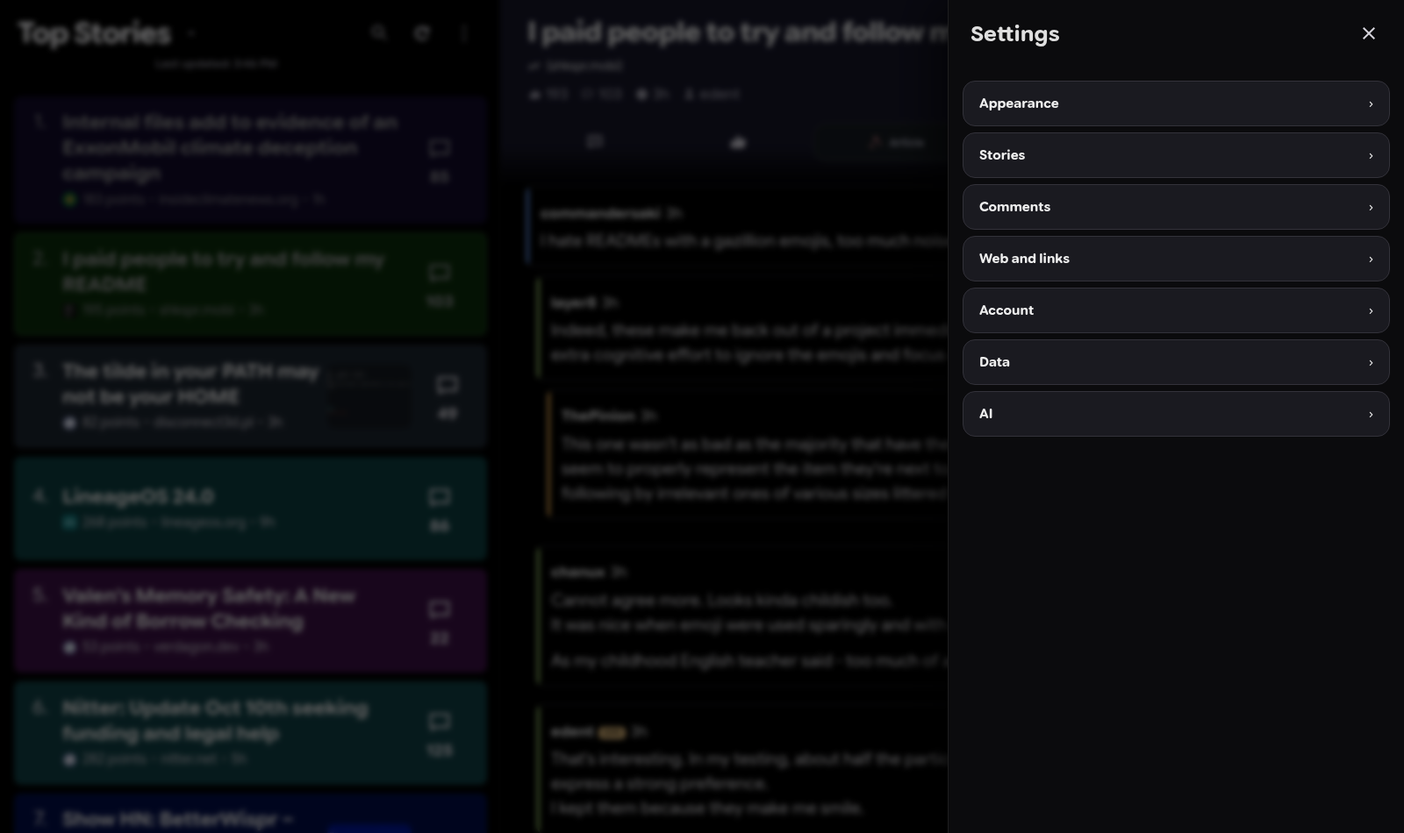
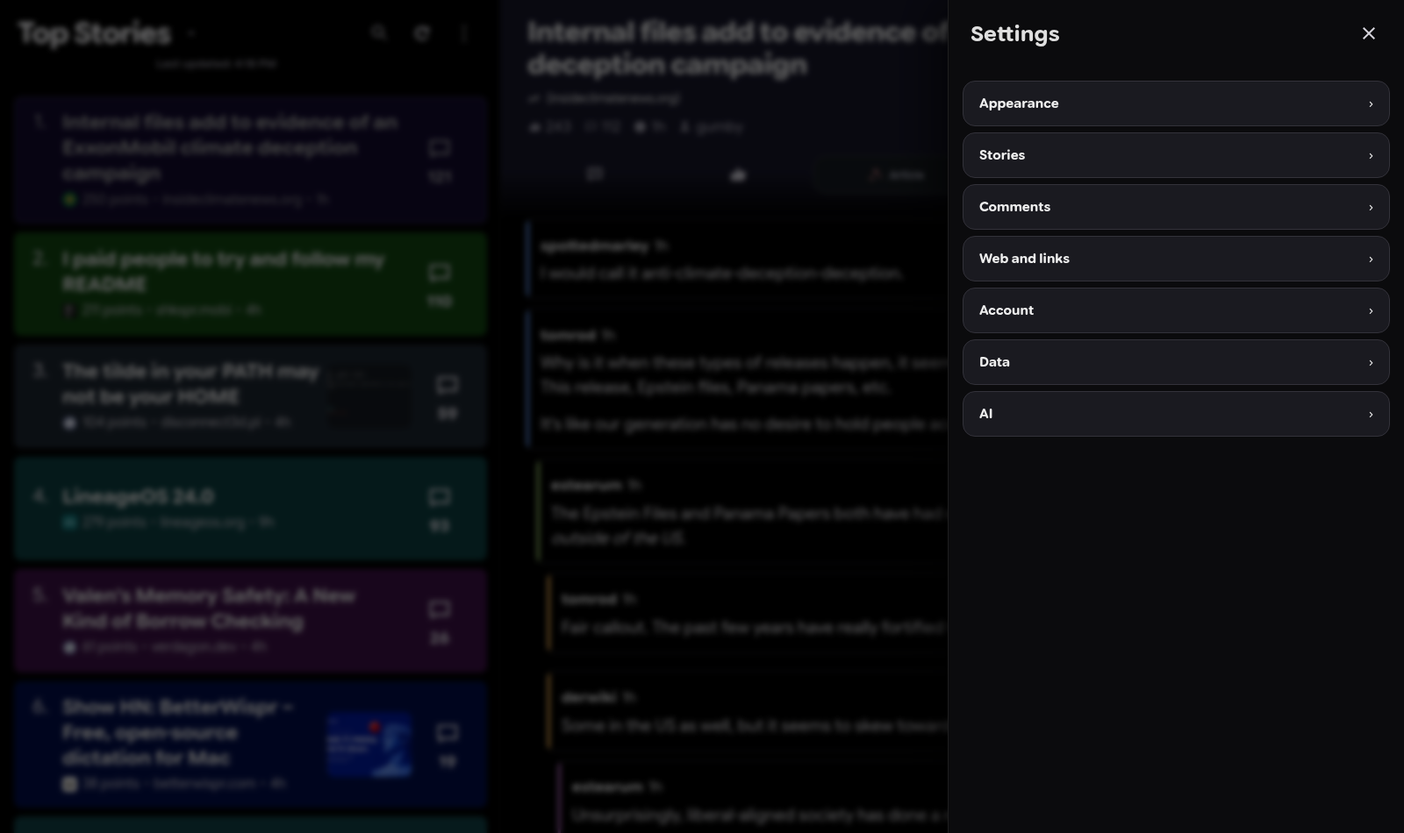
docs: simplify onboarding with more screenshots

diff --git a/README.md b/README.md
@@ -2,127 +2,92 @@
 
 **A better place to read Hacker News on your browser.**
 
-Harmonic for Hacker News is a free, open-source Chrome extension that gives [Hacker News](https://news.ycombinator.com/) a more comfortable reading interface: colorful story cards, a two-column layout, thoughtful comment threads, and controls that stay out of the way until you need them.
+Harmonic for Hacker News is a Chrome extension that gives [Hacker News](https://news.ycombinator.com/) a cleaner, more enjoyable desktop interface. Read stories, follow discussions, search Hacker News, and use your HN account without leaving the website.
 
-It runs **on the real Hacker News website**. Your links, discussions, votes, and account still belong to Hacker News. You don't need a Hacker News account to browse, and **you don't need Node.js, a terminal, or a build step to install it**.
+![Harmonic showing colorful stories on the left and a discussion on the right](docs/assets/overview.png)
 
-[**Get the latest release**](https://github.com/chaosmanage/harmonic-hn-browser/releases/latest) · [**Install from source**](#option-b-download-or-clone-the-repository) · [**See what it can do**](#what-you-get)
+## Why I made this
 
-## With thanks to the original Harmonic
+I really enjoy using [**Harmonic for Hacker News on Android**](https://github.com/SimonHalvdansson/Harmonic-HN). Compared with Harmonic, the regular Hacker News website never felt particularly appealing or intuitive to me. I wanted to bring that same reading experience to my computer.
 
-**This project exists because of [Harmonic for Hacker News by Simon Halvdansson](https://github.com/SimonHalvdansson/Harmonic-HN). Thank you, Simon, for building it and releasing it as open source.**
+I even tried running the Android app in an emulator. It worked as an experiment, but it wasn't how I wanted to use Hacker News every day. A **Chrome extension** turned out to be the better solution: open Hacker News in a normal browser tab, and get the Harmonic-style interface right there.
 
-Harmonic is a beautifully considered **Android app for reading Hacker News**. Its dark reading surfaces, colorful story cards, relaxed typography, and clear treatment of deeply nested conversations make HN feel like something you can settle into instead of a page you have to decipher.
+**A huge thank-you to [Simon Halvdansson](https://github.com/SimonHalvdansson/Harmonic-HN) for the original Harmonic Android app.** Its design, thoughtful approach to reading, and open-source code are the reason this project exists. I've taken a lot of inspiration from it, including the story cards, colors, typography, and comment layout. This is an independent browser adaptation, not an official Harmonic desktop app.
 
-We wanted that same approach at a desktop keyboard, with a wide monitor and ordinary browser tabs. **This extension is a browser adaptation inspired by Harmonic's design philosophy**, not a copy of the Android app and not an official desktop edition. You do **not** need to have seen or used the Android app to understand or use this project.
+If you've never used Harmonic on Android, that's fine. All you need to know is that this extension makes Hacker News more comfortable to read on a desktop.
 
-We also use Harmonic's original launcher artwork (with attribution) and load a pinned copy of its rounded font at runtime. The upstream project is licensed under [Apache-2.0](https://github.com/SimonHalvdansson/Harmonic-HN/blob/main/LICENSE); details of the icon source are recorded in [icons/README.md](icons/README.md).
+## Install in Chrome
 
-## A look at Harmonic on the web
+**No coding or building required.** Just download the extension, extract it, and tell Chrome where the folder is.
 
-![The Harmonic extension displaying a Hacker News story feed on the left and an expanded discussion on the right](docs/assets/overview.png)
+1. **Download:** Go to [**Releases**](https://github.com/chaosmanage/harmonic-hn-browser/releases/latest) and download the ZIP named `harmonic-hn-browser-<version>.zip` under **Assets**.
+2. **Unzip it:** Extract the downloaded ZIP. Open the extracted folder; inside you'll find a folder named **`harmonic-hn-browser`**. Keep it somewhere permanent, like Documents.
+3. **Open Chrome extensions:** Type **`chrome://extensions`** into Chrome's address bar.
+4. **Turn on Developer mode** using the switch in the top-right corner, then click **Load unpacked**.
+5. **Choose the folder:** Select the inner **`harmonic-hn-browser`** folder — the one that directly contains the file **`manifest.json`**. Don't select the ZIP itself.
+6. **You're done:** Open [news.ycombinator.com](https://news.ycombinator.com/), or refresh it if it was already open.
 
-*Harmonic running on news.ycombinator.com. The left pane is your feed; the right pane is the selected discussion. Screenshot from the actual extension; story content changes over time.*
+![Chrome Extensions page with Developer mode on and Load unpacked at the top](docs/assets/install-chrome.png)
 
-## Install in Chrome — no build required
+### Prefer downloading the source or using Git?
 
-The extension isn't installed through the Chrome Web Store. Chrome's **Load unpacked** option takes about a minute and works with either a release download or the source repository.
-
-### Option A: Download a release (recommended)
-
-1. Open the [**GitHub Releases page**](https://github.com/chaosmanage/harmonic-hn-browser/releases/latest).
-2. Under **Assets**, download `harmonic-hn-browser-<version>.zip` (for example, `harmonic-hn-browser-0.13.6.zip`). **Do not download the “Source code” archive if you specifically want the packaged release.** Both can work, but their folder layouts differ.
-3. Extract the ZIP to a location you'll keep, such as your Documents folder. Inside it is a folder named `harmonic-hn-browser`.
-4. Follow the [Load unpacked steps](#load-the-extension) below, and select that inner `harmonic-hn-browser` folder.
-
-### Option B: Download or clone the repository
-
-**No build is necessary:** the repository root already contains everything Chrome needs, including `manifest.json`.
-
-- **Without Git:** open the [repository](https://github.com/chaosmanage/harmonic-hn-browser), click **Code → Download ZIP**, then extract the archive.
-- **With Git:** run:
-
-  ```bash
-  git clone https://github.com/chaosmanage/harmonic-hn-browser.git
-  ```
-
-Follow the next steps, selecting the **repository's root directory**, the folder containing `manifest.json`. You can ignore `npm`, `node_modules`, and `dist` entirely as a reader.
-
-### Load the extension
-
-1. Open **`chrome://extensions`** in Chrome (or the browser's equivalent Extensions page).
-2. Turn on **Developer mode** (top-right).
-3. Click **Load unpacked**.
-4. Select the folder containing **`manifest.json`**: the extracted `harmonic-hn-browser` release folder **or** the repository root. Select a folder, **not the ZIP file itself**.
-5. Visit [news.ycombinator.com](https://news.ycombinator.com/). Harmonic should appear automatically. Refresh an already-open HN tab if necessary.
-6. Optionally pin **Harmonic for Hacker News** from the browser's Extensions menu to access the on/off switch.
-
-```text
-Release download                         Source download / git clone
-harmonic-hn-browser-0.13.6.zip            harmonic-hn-browser/
-└── harmonic-hn-browser/                 ├── manifest.json   ← select this folder
-    ├── manifest.json                   ├── content.js
-    ├── content.js                       └── ...
-    └── ...
-    ↑ select this inner folder
-```
-
-**Updating:** Keep the extracted extension **in the same location**, replace its contents with the new release (or `git pull` in your cloned repository), click **Reload** at `chrome://extensions`, then refresh HN. Moving the folder can cause Chrome to treat it as a different unpacked extension and may affect stored settings. See [installation troubleshooting](docs/TROUBLESHOOTING.md) if anything looks wrong.
-
-## What you get
-
-| | |
-| --- | --- |
-| **A proper desktop reader** | A scrollable feed beside the active discussion, with room for nested comments and long titles. |
-| **Readable stories** | Tinted cards, source favicons, optional preview images, score and comment counts, and read-state indicators. |
-| **Comments worth reading** | Depth-colored threads, collapsing branches, in-thread search, jump navigation, sorting, and optional author tags or blocks. |
-| **More ways to find things** | Top, New, Best, Ask, Show, Jobs, extra curated feeds, and site-wide search powered by Algolia's HN index. |
-| **Your own look** | AMOLED black, charcoal, or deep navy themes; font, card, image, feed, and comment preferences. |
-| **Your HN account, if you want it** | Sign in through Hacker News itself to vote, reply, submit stories, manage favorites, and browse account lists. |
-| **Optional AI summaries** | Separate **Article** and **Discussion** summaries via your own OpenRouter API key; you choose when to request one. |
-| **An escape hatch** | Open untouched Hacker News whenever you want, or disable Harmonic from its toolbar popup without removing the extension. |
-
-See the [feature guide](docs/FEATURES.md) for screenshots, settings, and the full explanation of how these work.
-
-### A few things to know
-
-- **You can read without signing in.** For account actions, Harmonic uses your existing Hacker News session and Hacker News's own login page; it doesn't collect your password.
-- **Editing and deleting comments are currently handed off to original Hacker News.** Harmonic explains the limitation and asks before opening HN's edit or delete page. Replying and new story submissions are available inside the extension, subject to HN's own validation and rate limits.
-- **AI is optional and off until configured.** Article text or public discussion content is sent to OpenRouter only when you explicitly request a summary. Some websites prevent automated article reading; a discussion summary is a separate choice, not a substitute silently presented as an article summary.
-- **This is an independent extension.** It is not affiliated with Simon Halvdansson, Hacker News, Y Combinator, or OpenRouter.
-
-## Privacy and permissions, in plain English
-
-Harmonic runs on `news.ycombinator.com`; it does not replace HN or route your browsing through a project-owned server. It has no project-owned analytics service or backend. Preferences, bookmarks, read-state markers, and optional user tags are stored locally and/or in Chrome storage. Non-secret display preferences can sync via Chrome Sync.
-
-The extension requests broad website access because previews, favicons, linked-article reading, and optional summaries involve links to many different domains; the **Harmonic interface itself is only injected on Hacker News**. Optional OpenRouter keys stay in extension-owned storage, not HN page storage, and are sent to OpenRouter when you ask for a summary.
-
-The exact storage modes, external requests, limitations, and safety measures are documented in [**Privacy & security**](docs/PRIVACY.md).
-
-## For contributors and the curious
-
-The extension uses **Chrome Manifest V3 and plain JavaScript/CSS**. There's no frontend framework and no build step for ordinary use. To develop or create a distributable ZIP:
+That works too. On the [repository page](https://github.com/chaosmanage/harmonic-hn-browser), choose **Code → Download ZIP** and extract it, or clone it:
 
 ```bash
-npm ci
-npm run package
+git clone https://github.com/chaosmanage/harmonic-hn-browser.git
 ```
 
-That produces `dist/harmonic-hn-browser/` (loadable unpacked) and `dist/harmonic-hn-browser-<version>.zip` (shareable). The release ZIP is the one attached to GitHub Releases.
+Then follow **steps 3–6 above**, selecting the downloaded or cloned **repository folder** (the folder with `manifest.json`). **You still don't need to build anything.**
 
-| Document | What it's for |
+To update an unpacked installation, keep the same folder location, replace its contents (or run `git pull`), click **Reload** on `chrome://extensions`, and refresh Hacker News. [Having trouble?](docs/TROUBLESHOOTING.md)
+
+## What can it do?
+
+- **Read side by side.** Stories stay on the left while the discussion opens on the right.
+- **Browse more feeds.** Top, New, Best, Ask HN, Show HN, Jobs, and more.
+- **Follow conversations.** Color-coded reply depths, collapsible threads, comment search, and sorting.
+- **Search all of Hacker News.** Find stories or comments and filter by date, author, and more.
+- **Make it yours.** Dark themes, fonts, story previews, comment styles, and other settings.
+- **Use your HN account.** Vote, reply, submit stories, and manage favorites, using Hacker News's own login.
+- **Summarize with AI (optional).** Use your own OpenRouter key to summarize an article or its HN discussion.
+
+### A closer look
+
+| Feeds | Search Hacker News |
 | --- | --- |
-| [Feature guide](docs/FEATURES.md) | Using the reader, accounts, search, summaries, and settings |
-| [Installation help](docs/TROUBLESHOOTING.md) | Setup, updates, common problems, and how to report an issue |
-| [Privacy & security](docs/PRIVACY.md) | Permissions, storage, network requests, and AI data handling |
-| [Architecture](docs/ARCHITECTURE.md) | Runtime pieces, APIs, and the path from a page to a rendered thread |
-| [Development & releases](docs/DEVELOPMENT.md) | Local setup, test commands, packaging, and release checklist |
-| [Changelog](CHANGELOG.md) | The detailed record of changes, fixes, and versions |
+| ![Choosing feeds in Harmonic](docs/assets/feeds.png) | ![Site-wide search and filters](docs/assets/search.png) |
+
+| Appearance | Story settings |
+| --- | --- |
+| ![Appearance options](docs/assets/appearance.png) | ![Story display options](docs/assets/story-settings.png) |
+
+[Explore the full feature guide, including more screenshots →](docs/FEATURES.md)
+
+## AI summaries: articles or discussions
+
+Sometimes I want the main points of an article before reading it. Other times the **Hacker News comments** are the interesting part. Harmonic has a separate button for each:
+
+- **Article** reads the linked page and summarizes its content.
+- **Discussion** summarizes the public Hacker News conversation instead.
+
+Both use [OpenRouter](https://openrouter.ai/) and are optional. Add your own API key in **Settings → AI** and select a model. Nothing is summarized unless you request it (unless you choose to enable automatic summaries in Settings). The text being summarized is sent to OpenRouter; not every article site allows automatic reading.
+
+![AI summary card in the discussion reader with demonstration-only output](docs/assets/ai-summary-demo.png)
+
+*AI interface demonstration. The example summary text is mocked, not a summary of the article shown.*
+
+## A couple of things to know
+
+You don't need to sign in just to read. For voting, replying, or posting, Harmonic uses your Hacker News session; login happens on HN itself. Editing or deleting **existing** comments currently opens HN's original edit/delete page after asking for confirmation.
+
+You can always open **original Hacker News** from the menu or turn off Harmonic from the extension icon without uninstalling it. The extension runs on `news.ycombinator.com`; it has no project-run server or analytics. [Read more about privacy and permissions.](docs/PRIVACY.md)
+
+## More information
+
+[Full feature guide](docs/FEATURES.md) · [Installation help](docs/TROUBLESHOOTING.md) · [Architecture](docs/ARCHITECTURE.md) · [Contributing and development](docs/DEVELOPMENT.md) · [Changelog](CHANGELOG.md)
 
 ## Credits and license
 
-**The largest credit goes to [Simon Halvdansson's Harmonic Android app](https://github.com/SimonHalvdansson/Harmonic-HN).** If you like this reading experience, please look at the original project. Its open-source work gave this desktop adaptation both its starting point and its visual direction.
+Once again, **thank you to [Simon Halvdansson and the original Harmonic Android project](https://github.com/SimonHalvdansson/Harmonic-HN)** for the inspiration. The extension uses the original Harmonic launcher artwork, with its source documented in [icons/README.md](icons/README.md), and loads the upstream rounded font at runtime.
 
-The extension's icon is derived from the original Harmonic launcher artwork. See [icon provenance](icons/README.md) for the exact upstream commit and source path. Both projects use the **Apache License 2.0**; see [LICENSE](LICENSE) for this repository's license.
-
-This browser extension is an independent community project, not an official Harmonic Android release or an official Hacker News product.
+This project is licensed under **[Apache License 2.0](LICENSE)**, the same license used by the original Harmonic project. It isn't affiliated with the original Harmonic developers, Hacker News, or Y Combinator.

diff --git a/docs/FEATURES.md b/docs/FEATURES.md
@@ -12,6 +12,8 @@ Harmonic changes how you **read** Hacker News, not where the discussions live. O
 
 Choose a feed from the title menu: Top, New, Best, Ask HN, Show HN, Jobs, and additional HN collections such as Active Discussions, Best Comments, Launch HN, and past front pages. Use **Manage feeds** to hide or reorder the less-used ones.
 
+![Feed switcher with Top, New, Best, Ask HN, Show HN, Jobs and Manage feeds](assets/feeds.png)
+
 Each story card can show its title, points, domain, age, reply count, favicon, and an optional preview image. Card tints help stories stand apart without turning the entire page into a grid of boxes. Story settings let you change density, preview sizing, points display, dimming for read stories, keyword/domain filters, and whether a card click opens the article or its comments.
 
 Click the comment count to open the discussion in the right pane. Article links open in a normal browser tab; Harmonic doesn't trap external links in its own reader.
@@ -33,6 +35,8 @@ The search field has two distinct modes:
 
 Search results open inside the same reader. For comment results, Harmonic can take you to the relevant discussion and comment. Site-wide results come from Algolia's index, so an extremely recent comment may not be indexed immediately.
 
+![Site-wide search controls showing content types, dates, sorting and author filters](assets/search.png)
+
 ## Your Hacker News account
 
 Reading needs no login. To interact as a user, sign in through **Hacker News's own login page** using the account entry in Harmonic. Harmonic doesn't ask for, read, or store your HN password.
@@ -53,6 +57,10 @@ Open **Settings** from Harmonic's menu or the extension toolbar popup.
 
 Settings are organized by **Appearance, Stories, Comments, Web and links, Account, Data, and AI**. You can choose an AMOLED-black, charcoal, or deep-navy color scheme; adjust reading fonts, zoom and story display; change comment treatment; control preview images and favicons; and configure link behavior. In the Data section you can export or import bookmarks, read-story IDs, user tags, and blocked-user rules as a JSON file.
 
+| Appearance | Story settings |
+| --- | --- |
+| ![Harmonic theme and font controls](assets/appearance.png) | ![Harmonic story customization controls](assets/story-settings.png) |
+
 Tags and blocking are **private local reading preferences**, not HN account features. Tagging a username helps you recognize them later; blocking replaces their comments with an unblockable placeholder. Neither setting changes what other users see on Hacker News.
 
 ### Link extras
@@ -72,7 +80,13 @@ The **Article** and **Discussion** buttons are separate for a reason: one summar
 3. Open a story and click **Article** or **Discussion**. The request runs only when you click.
 4. You can stop a running summary or regenerate it. The summary appears in the current reader, not in a new service.
 
+![AI settings and OpenRouter configuration in the Harmonic settings pane](assets/ai-settings.png)
+
 For an article summary, Harmonic fetches and extracts readable article text. Some websites block this; you may then choose to summarize public HN discussion separately. For a discussion summary, the source is the public comments rather than the external article. **Extracted source text is sent to OpenRouter** along with the configured summary prompt. Generated summaries can be inaccurate, especially on ambiguous threads.
+
+![AI summary presentation in Harmonic using test-only sample output](assets/ai-summary-demo.png)
+
+*Demonstration screenshot with a mocked OpenRouter response. The example text is not a real summary of the visible article.*
 
 The AI key can be stored **in this Chrome profile** or **for this browser session only**. It isn't synced via Chrome Sync. See [Privacy & security](PRIVACY.md) for the precise data flow and storage trade-offs.
 

diff --git a/docs/RELEASE_NOTES.md b/docs/RELEASE_NOTES.md
@@ -1,10 +1,10 @@
-# Harmonic for Hacker News v0.13.6
+# Harmonic for Hacker News v0.13.7
 
-A desktop reading experience for Hacker News, inspired by [Simon Halvdansson's Harmonic Android app](https://github.com/SimonHalvdansson/Harmonic-HN). Big thanks to the original project for the design direction and the open-source groundwork.
+**Documentation and onboarding update.** Harmonic is a Chrome extension that brings a Harmonic-inspired reading experience to Hacker News on desktop. A huge thank-you to [Simon Halvdansson and the original Harmonic Android app](https://github.com/SimonHalvdansson/Harmonic-HN), which inspired this project.
 
 ## Install in Chrome — no build needed
 
-1. Download **`harmonic-hn-browser-0.13.6.zip`** from the Assets section below.
+1. Download **`harmonic-hn-browser-0.13.7.zip`** from the Assets section below.
 2. Unzip it. You'll find a folder named **`harmonic-hn-browser`** inside.
 3. Open **`chrome://extensions`**, turn on **Developer mode**, and click **Load unpacked**.
 4. Select that inner **`harmonic-hn-browser`** folder (the one containing `manifest.json`).
@@ -12,12 +12,14 @@ A desktop reading experience for Hacker News, inspired by [Simon Halvdansson's H
 
 You can also [clone or download the repository](https://github.com/chaosmanage/harmonic-hn-browser) and load its root folder directly. No Node.js or build step is necessary for either route.
 
-## What's included
+## What's new
 
-- A split desktop feed and discussion reader with tinted cards, threaded comments, multiple feeds, and site-wide search.
-- Themes, reader preferences, link previews, account actions, and an original-HN fallback.
-- Separate optional OpenRouter summaries for article text and public HN discussion.
-- The v0.13.6 behavior: editing/deleting existing comments requires confirmation and hands off to HN's native pages; they are **not** supported inside Harmonic for now.
+- A shorter README explaining why I brought the Harmonic Android experience to my desktop, including trying the app in an emulator before making a Chrome extension.
+- Much simpler installation instructions, with a picture of the Chrome **Load unpacked** button. No terminal or build required.
+- Screenshots of feeds, search, appearance, story settings, and the optional AI summarization interface. The summary example is clearly marked as a demo.
+- More focused feature, privacy, troubleshooting, and architecture guides. The extension itself works the same as v0.13.6.
+
+**Known limitation:** editing and deleting existing comments is handled through Hacker News' original pages after confirmation.
 
 See the [README](https://github.com/chaosmanage/harmonic-hn-browser#readme), [feature guide](https://github.com/chaosmanage/harmonic-hn-browser/blob/main/docs/FEATURES.md), and [changelog](https://github.com/chaosmanage/harmonic-hn-browser/blob/main/CHANGELOG.md) for details.
 

diff --git a/docs/DEVELOPMENT.md b/docs/DEVELOPMENT.md
@@ -41,6 +41,8 @@ harmonic-hn-browser/
 
 Generated material such as `dist/`, `node_modules/`, and `test-results/` is ignored by Git. Captured raw HN fixture data, traces, and any credentials must remain untracked. Documentation screenshots in `docs/assets/` are an intentional exception.
 
+To refresh the screenshots in the README and feature guide, run `node scripts/capture-doc-screenshots.mjs`. This runs the actual extension in Chromium and captures its UI. The AI summary screenshot uses a deterministic **mock response**, not a real OpenRouter key or a summary of a real article. Never pass secrets to the screenshot tool. The main reader screenshot in `docs/assets/overview.png` is captured separately from the live reader.
+
 ## Test commands
 
 The commands below run from the repository root. The browser tests launch Chromium with the extension loaded; most tests use local mocks or sanitized HTML fixtures.
@@ -84,7 +86,7 @@ The script reads the version from `manifest.json` and creates:
 ```text
 dist/
 ├── harmonic-hn-browser/                 ready for Load unpacked
-└── harmonic-hn-browser-0.13.6.zip      ZIP containing that folder
+└── harmonic-hn-browser-0.13.7.zip      ZIP containing that folder
 ```
 
 The folder name inside the ZIP is deliberately **stable**, even though the ZIP filename contains the version. When updating an unpacked installation, keeping the extracted path stable reduces the chance of Chrome treating it as a different extension.
@@ -113,8 +115,8 @@ Please don't add screenshot dumps, raw response captures, API credentials, or te
 Example maintainer command, **after** preparing and pushing the intended commit:
 
 ```bash
-gh release create v0.13.6 dist/harmonic-hn-browser-0.13.6.zip \
-  --title "Harmonic for Hacker News v0.13.6" \
+gh release create v0.13.7 dist/harmonic-hn-browser-0.13.7.zip \
+  --title "Harmonic for Hacker News v0.13.7" \
   --notes-file docs/RELEASE_NOTES.md
 ```
 

diff --git a/CHANGELOG.md b/CHANGELOG.md
@@ -6,12 +6,19 @@ The format is based on [Keep a Changelog](https://keepachangelog.com/en/1.1.0/),
 
 ## [Unreleased]
 
+- Nothing yet.
+
+## [0.13.7] - 2026-10-11
+
 ### Documentation
-- Reorganized documentation into a reader-first README and maintained feature, installation, privacy, architecture, and development guides. Added current screenshots and unpacked-install instructions, with prominent credit to the original Harmonic Android project.
-- Included documentation in release ZIPs and removed obsolete implementation/audit plans.
+- Replaced the long README with a simpler first-person introduction: why I enjoy Harmonic Android, why ordinary desktop HN felt less intuitive to me, the Android emulator experiment, and why I chose a Chrome extension.
+- Added clear no-build installation instructions and a screenshot showing Chrome's Developer mode and Load unpacked controls.
+- Added authentic screenshots of feed options, site-wide search, appearance, story settings, and AI settings, plus a clearly labeled mocked AI summary preview.
+- Organized feature, troubleshooting, privacy, architecture, and contributor documentation, kept prominent credit to Simon Halvdansson, and removed obsolete plans.
+- Kept this project under Apache License 2.0, matching the upstream Harmonic Android project. Expanded release packages to include the guides and screenshots.
 
 ### Tests
-- Fixed the Chromium security test selector to target Article now that Article and Discussion have separate summary controls.
+- Updated the browser security test to select the distinct Article summary button after the Article/Discussion toolbar split.
 
 ## [0.13.6] - 2026-10-11
 

diff --git a/docs/ARCHITECTURE.md b/docs/ARCHITECTURE.md
@@ -2,7 +2,9 @@
 
 [← Back to README](../README.md) · [Development](DEVELOPMENT.md) · [Privacy & security](PRIVACY.md)
 
-Harmonic is deliberately a small **Manifest V3 browser extension**, not a frontend app hosted on a separate domain. Chrome injects CSS and scripts into HN pages; an extension service worker handles privileged cross-origin work. There is no bundler or application framework in the runtime.
+Harmonic is a **Manifest V3 browser extension**, not a separate website or a port of the Android app. Open HN as usual and the extension replaces the reading interface. Stories and discussion content still come from HN-related APIs; signing in still happens on Hacker News. There is no project-owned backend or build step.
+
+The content script draws the UI and an extension service worker handles cross-origin requests. That separation keeps optional OpenRouter credentials out of the Hacker News page.
 
 ## At a glance
 

diff --git a/docs/TROUBLESHOOTING.md b/docs/TROUBLESHOOTING.md
@@ -17,6 +17,8 @@ The one that contains `manifest.json` **directly inside it**.
 
 Chrome cannot load a compressed ZIP through **Load unpacked**. Extract it first. You should not need `npm install`, `npm run build`, or a Chrome Web Store account.
 
+![Chrome extensions page with Developer mode enabled and the Load unpacked button visible](assets/install-chrome.png)
+
 ## Chrome says “Manifest file is missing or unreadable”
 
 You're probably selecting the parent of the extension folder. Open the folder in your file manager first and verify that you can see `manifest.json` beside `content.js` and `background.js`. Then select that folder itself.
